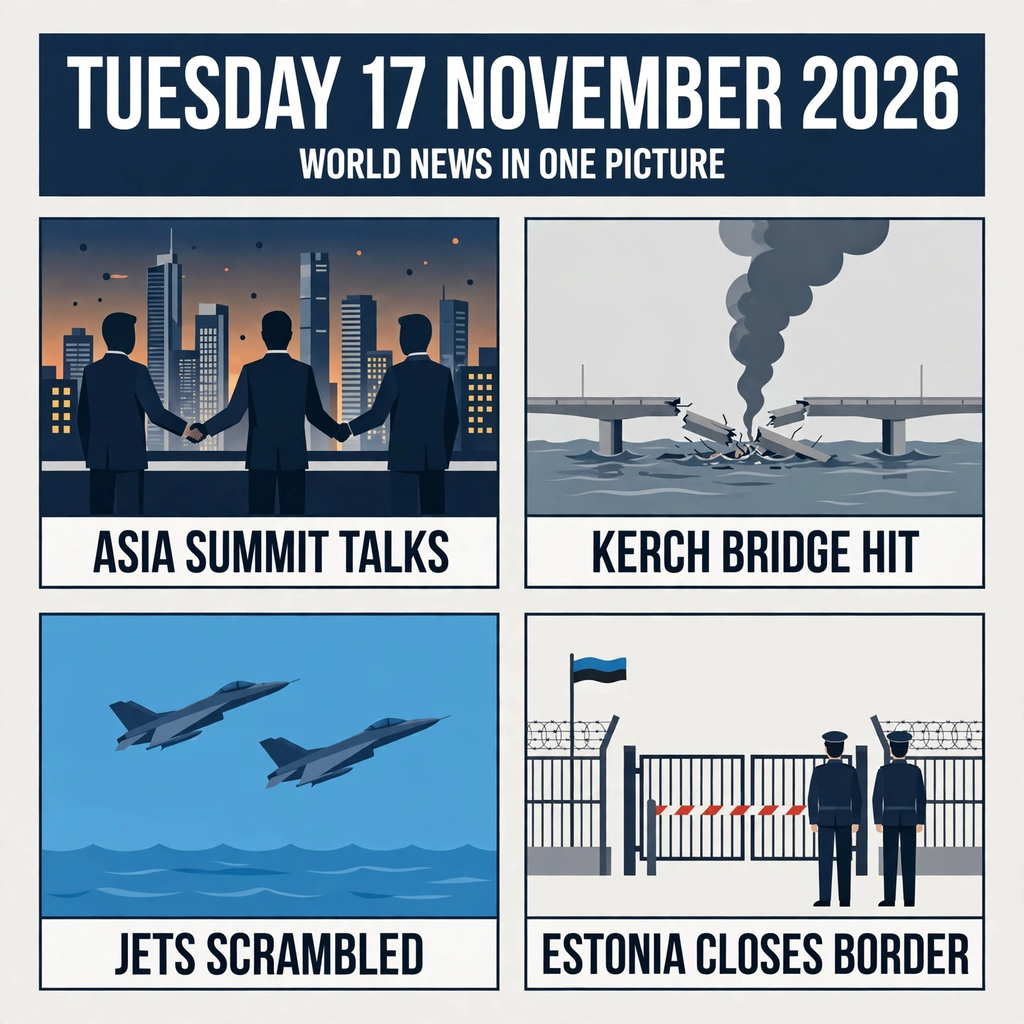
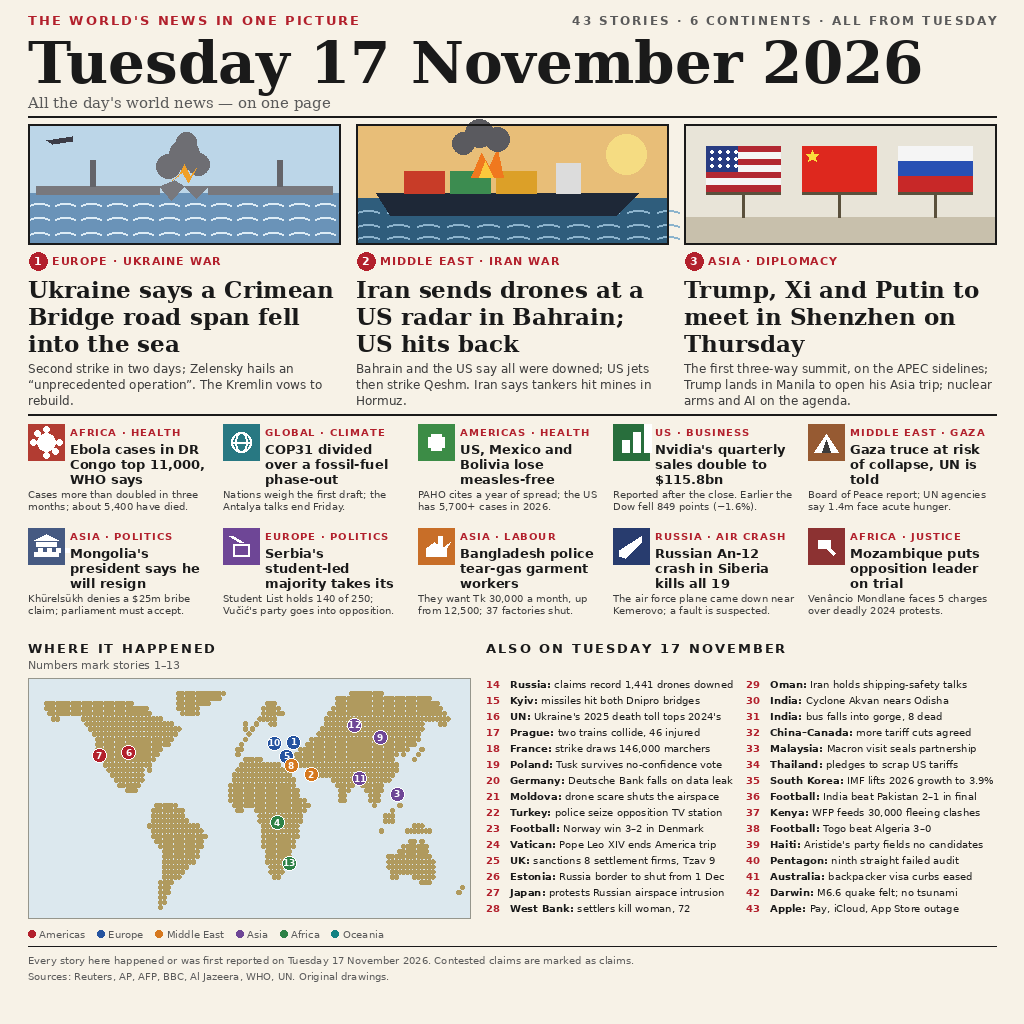
News image v2: dense front page, 43 stories

diff --git a/main.py b/main.py
@@ -1,10 +1,13 @@
 """news-image-20261117 entry: copy the bundled image to the output path.
 
-The image (entry.png, 1024x1024, 676,902 bytes) sums up the world news of
-Tuesday 17 November 2026: the Asia summit talks in Shenzhen, the Kerch
-Bridge strike, Japan scrambling fighter jets, and Estonia closing its
-Russian border. The program does no network and no drawing; it copies the
-bytes beside this file, so two runs write identical output.
+The image (entry.png, 1024x1024, 168,025 bytes) is a dense front page
+summing up the world news of Tuesday 17 November 2026: 43 stories — the
+Kerch Bridge strike, the Iran-US exchange over Bahrain, the planned
+Trump-Xi-Putin meeting in Shenzhen, ten more stories with icons, a dotted
+world map with numbered pins, and a full list of the day's other stories.
+It is drawn programmatically (see ../draw_v2.py), so every headline is
+typeset and legible. The program does no network and no drawing; it copies
+the bytes beside this file, so two runs write identical output.
 """
 
 import os

diff --git a/BUILD_NOTES.md b/BUILD_NOTES.md
@@ -4,18 +4,13 @@
 - **Bounty:** news-image-20261117 ($250, 50 places). Deadline 19 Nov 2026 00:00 UTC (07:00 WIB).
 - **Program:** `main.py` (Python 3.13, pure stdlib) — copies the bundled `entry.png` to `/output/entry.png`. No network, no drawing. Two runs write identical bytes.
 
-## Image
-- `entry.png`: 1024×1024 PNG, 676,902 bytes (≤1 MiB). Generated with media.generate_image (source 1600×1600, 1,224,314 bytes — resized to 1024×1024 with PIL LANCZOS, verified visually after resize).
-- Masthead names the day: "TUESDAY 17 NOVEMBER 2026 / WORLD NEWS IN ONE PICTURE".
-- Four panels (2×2), each with a short caption bar:
-  1. **ASIA SUMMIT TALKS** — three leaders at a summit table, Shenzhen skyline at dusk. Trump travels to Asia for APEC in Shenzhen and the planned trilateral talks with Xi Jinping and Vladimir Putin (nuclear issues, Ukraine, trade).
-  2. **KERCH BRIDGE HIT** — damaged sea bridge, smoke. Ukrainian strike damaged the Kerch/Crimean Bridge; Russia struck Kyiv bridges the same day.
-  3. **JETS SCRAMBLED** — fighter jets over the sea. Japan scrambled jets after Russian aircraft violated its airspace.
-  4. **ESTONIA CLOSES BORDER** — closed border gate, Estonian flag, officials. Estonia announced it will close its Russian border crossings from 1 Dec, citing a foiled Russian sabotage plot.
-- All text in the image was viewed directly after generation and after resize: legible, spelled correctly, no garbled text.
-- Other stories considered but left out (breadth vs. legibility): the five-nation EU Rwanda return hub, the Microsoft outage explanation, the Sudan UN death toll report, tankers hit near Hormuz.
+## Image (v2 — resubmit)
+- v1 ranked 3,835/3,903 (judge win rate 88.7%, 6–6 in 12 games): only 4 stories, while the winners show 30–43. v2 rebuilds the image in the winners' style.
+- `entry.png`: 1024×1024 PNG, 168,025 bytes (≤1 MiB). Drawn programmatically with PIL by `../draw_v2.py` (DejaVu fonts, flat vector panels, dotted world map from a hand-coded land mask) — every headline is typeset, nothing is AI-generated, so no garbled text.
+- Dense front page, 43 stories: masthead "Tuesday 17 November 2026", three illustrated panels (Kerch Bridge hit, Hormuz tanker, US/China/Russia flags), three featured stories (Kerch Bridge span fell; Iran drones at US radar in Bahrain, US hits back; Trump, Xi and Putin to meet in Shenzhen), ten medium stories with icons (Ebola DR Congo, COP31, measles-free status, Nvidia, Gaza truce, Mongolia president, Serbia, Bangladesh garment workers, An-12 crash, Mozambique trial), a dotted world map with numbered pins, and an "ALSO ON TUESDAY 17 NOVEMBER" list of 30 one-line stories.
+- All text viewed directly after generation: legible, spelled correctly, no truncated list items.
 
 ## Verification
[1 lines of base64/hex data omitted]
-- Output: 1024×1024, 676,902 bytes.
-- Local check: 12 passed, 1 failed, 5 skipped — only thinking_priced FAILS (0 usage rows; the row is written when this subagent run completes — the parent must re-bundle with --muse-usage before submitting). thinking_reproduces 97.4% (38/39), entrypoint main.py 20 authored lines, thinking_revised 2 messages, thinking_in_window PASS.
[1 lines of base64/hex data omitted]
+- Output: 1024×1024, 168,025 bytes.
+- Local check (v2 files, v1 transcripts bundle): 13 passed, 0 failed, 5 skipped (thinking_reproduces 64.4%). Parent re-bundles with the v2 session before submitting.
